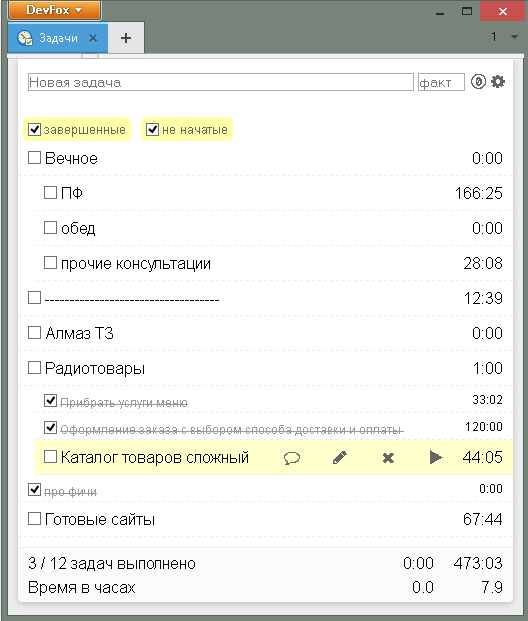
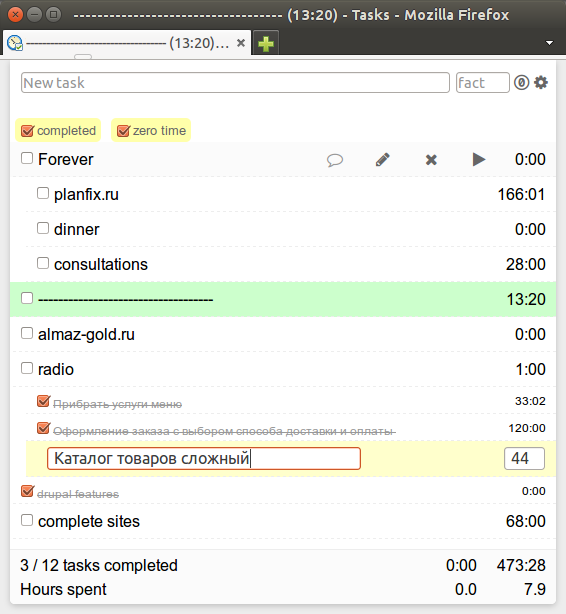
Translated to english

diff --git a/js/main.js b/js/main.js
@@ -289,7 +289,7 @@ $(function () {
       // TODO: не надо события засовывать где попало, отсюда и task = this
       var task = this;
       $(html).dialog({
-        title: 'Изменение комментария',
+        title: 'Edit comment',
         width: 400,
         modal: true,
         buttons: {
@@ -342,7 +342,7 @@ $(function () {
     },
 
     clear: function () {
-      if (confirm('Удалить задачу?')) {
+      if (confirm('Delete task?')) {
         this.model.clear();
         // TODO: вложенные задачи визуально пропадают, но не удаляются
         //tasks.trigger('refresh');
@@ -402,7 +402,7 @@ $(function () {
 
   var AppView = Backbone.View.extend({
     el: $('body'),
-    name: 'Задачи',
+    name: 'Tasks',
 
     statsTemplate: _.template($('#stats-template').html()),
     settingsTemplate: _.template($('#settings-template').html()),
@@ -453,7 +453,7 @@ $(function () {
       this.filters.reset();
       this.filters.create({
         name: 'done',
-        label: 'завершенные',
+        label: 'completed',
         checked: true,
         handler: function (task) {
           return task.get('done')
@@ -461,7 +461,7 @@ $(function () {
       });
       this.filters.create({
         name: 'zero',
-        label: 'не начатые',
+        label: 'zero time',
         checked: true,
         handler: function (task) {
           return task.get('time') == 0
@@ -601,14 +601,14 @@ $(function () {
       var html = this.settingsTemplate(this.settings);
 
       $(html).dialog({
-        title: 'Настройки',
+        title: 'Settings',
         width: 400,
         modal: true
       });
     },
 
     zeroTimes: function () {
-      if (confirm('Сбросить все время?')) {
+      if (confirm('Reset all tasks time?')) {
         tasks.zeroTimes();
       }
     },
@@ -619,7 +619,7 @@ $(function () {
         json: JSON.stringify(tasks)
       });
       $(html).dialog({
-        title: 'Экспорт в JSON',
+        title: 'Export to JSON',
         width: 400,
         modal: true
       });
@@ -627,18 +627,18 @@ $(function () {
     },
 
     exportTable: function () {
-      alert('Возможно, потом эта функция появится');
+      alert('Not implemented');
     },
 
     exportEmail: function () {
-      alert('Возможно, потом эта функция появится');
+      alert('Not implemented');
     },
 
     globalKeypress: function (e) {
       if (e.keyCode == 46) { // del
         var focused = tasks.focused();
         if (focused.length > 0) {
-          if (confirm('Удалить задачи (' + focused.length + ')?')) {
+          if (confirm('Delete tasks (' + focused.length + ')?')) {
             $.each(focused, function (ind, task) {
               task.clear();
             });
@@ -688,8 +688,8 @@ $(function () {
       if ($.type(msg) == 'object') {
         var task = msg;
         title = task.get('name');
-        body = Math.round((new Date().getTime() - task.get('startTimestamp')) / 60000) + ' минут без перерыва' + "\n" +
-          Math.round(task.get('time') / 60) + ' минут всего'
+        body = Math.round((new Date().getTime() - task.get('startTimestamp')) / 60000) + ' minutes without pause' + "\n" +
+          Math.round(task.get('time') / 60) + ' minutes total'
       }
       this.loglist.create({text: 'notifyDesktop'});
       var notify = new Notification(title, {

diff --git a/index.html b/index.html
@@ -3,7 +3,7 @@
 <!-- manifest="manifest-.appcache"-->
 <head>
     <meta charset="utf-8">
-    <title>Задачи</title>
+    <title>Tasks</title>
     <meta name="description" content="">
     <link rel="apple-touch-icon" type="image/png" href="img/icon32.png">
     <meta name="viewport" content="width=device-width, initial-scale=1">
@@ -37,9 +37,9 @@
 <div id="content">
     <header id="header">
         <div id="new-task">
-            <input name="name" autofocus x-webkit-speech autocomplete="off" placeholder="Новая задача" type="text"/>
-            <input name="time_plan" placeholder="план" type="text"/>
-            <input name="time" placeholder="факт" type="text"/>
+            <input name="name" autofocus x-webkit-speech autocomplete="off" placeholder="New task" type="text"/>
+            <input name="time_plan" placeholder="plan" type="text"/>
+            <input name="time" placeholder="fact" type="text"/>
         </div>
         <span class="task-button settings"><i class="icon-cog"></i></span>
         <span class="task-button zero-times"><i class="icon-cc-zero"></i></span>
@@ -107,7 +107,7 @@
     <% if (total) { %>
     <div>
         <span class="task-count">
-            <span class="number"><%= done %> / <%= total %> </span> задач выполнено
+            <span class="number"><%= done %> / <%= total %> </span> tasks completed
 
         </span>
         <span class="time">
@@ -116,7 +116,7 @@
         </span>
     </div>
     <div>
-        <span>Время в часах</span>
+        <span>Hours spent</span>
         <span class="time">
             <span class="total-time_plan"><%= (total_time_plan/3600).toFixed(1) %></span>
             <span class="total-time"><%= (total_time/3600).toFixed(1) %></span>
@@ -130,19 +130,16 @@
     <div>
         <div class="block-share share">
             <span class="task-button share"><i class="icon-share"></i></span>
-            <span title="Скопировать код задач для вставки в другой браузер" class="task-button export-json"><i class="icon-code"></i></span>
-            <!--<span title="Отправить задачи на email" class="task-button export-email"><i class="icon-mail"></i></span>-->
-            <!--<span title="Показать таблицу для вставки задач в Excel" class="task-button export-table"><i class="icon-table"></i></span>-->
+            <span title="Please, copy textarea content and paste in 'new task' input" class="task-button export-json"><i class="icon-code"></i></span>
         </div>
-        <div class=""><button class="settings-notify-desktop">Включить уведомления</button></div>
+        <div class=""><button class="settings-notify-desktop">Enable desktop notifications</button></div>
     </div>
 </script>
 
 
 <script type="text/template" id="export-json-template">
     <div>
-        <div>Скопируйте текст в текстовом поле и вставьте в другом браузере в поле "Новая задача", нажмите Enter.
-        Если эти задачи уже добавлялись ранее, они не будут обновлены.</div>
+        <div>Please, copy textarea content and paste in "New task" input and press Enter.</div>
         <textarea class="json-data"><%= json %></textarea>
     </div>
 </script>

diff --git a/README.md b/README.md
@@ -1,8 +1,6 @@
 # time_tracker
 Backbone & Jquery UI app, hierarchical task timer.
 
-Only russian language!
-
 Demo: http://time.viasite.ru/
 
 ![Screenshot](img/screenshot.png?raw=true)
